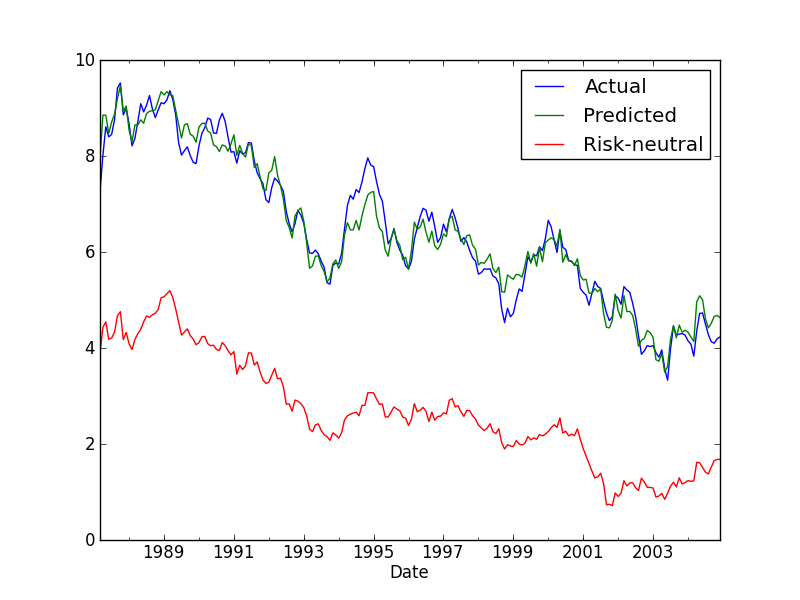
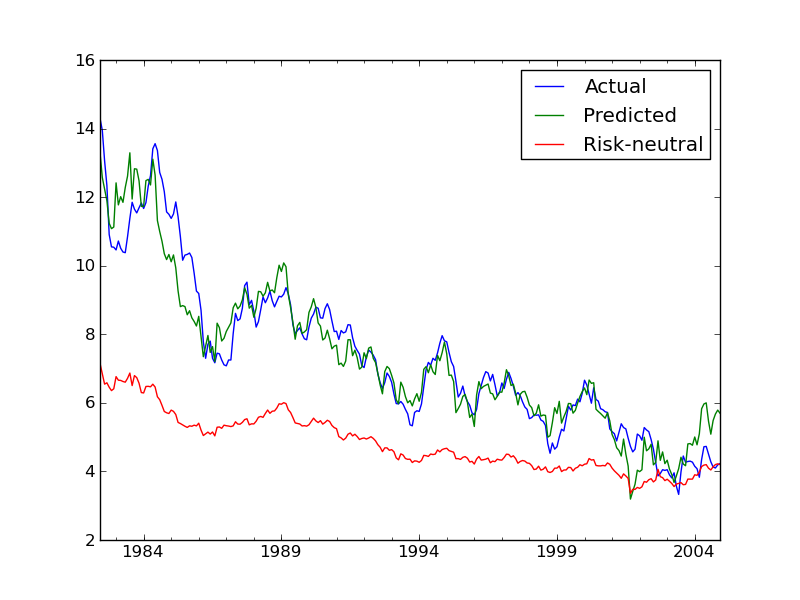
Working on getting figures for paper

diff --git a/code/est_error.py b/code/est_error.py
@@ -9,6 +9,11 @@ import matplotlib.pyplot as plt
 import pickle
 
 from affine import Affine
+from statsmodels.tsa.api import VAR
+from statsmodels.tsa.filters import hpfilter
+from scipy import stats
+from util import pickle_file, success_mail, fail_mail, to_mth, gen_guesses, \
+                    robust
 
 ########################################
 # Get macro data                       #
@@ -89,29 +94,33 @@ k_ar = bsr.k_ar
 
 lam_0_nr = np.zeros([neqs*k_ar, 1])
 lam_1_nr = np.zeros([neqs*k_ar, neqs*k_ar])
+sigma_zeros = np.zeros_like(bsr.sigma_ols)
+#sigma_zeros[:neqs, :neqs] = bsr.sigma_ols[:neqs, :neqs]
 
-a_nrsk, b_nrsk = bsr.gen_pred_coef(lam_0=lam_0_nr, lam_1=lam_1_nr,
-                                   delta_1=bsr.delta_1_nolat, mu=bsr.mu_ols,
-                                   phi=bsr.phi_ols, sigma=bsr.sigma_ols)
 #grab previous run
-pkl_file = open("pkl_file", "rb")
-final_lam_0 = pickle.load(pkl_file)
+pkl_file = open("../results/bern_nls/lam_0_all_nls.pkl", "rb")
+final_lam_0 = pickle.load(pkl_file)[0]
 pkl_file.close()
 
-pkl_file = open("pkl_file2", "rb")
-final_lam_1 = pickle.load(pkl_file)
+pkl_file = open("../results/bern_nls/lam_1_all_nls.pkl", "rb")
+final_lam_1 = pickle.load(pkl_file)[0]
 pkl_file.close()
+
 
 a_rsk, b_rsk = bsr.gen_pred_coef(lam_0=final_lam_0, lam_1=final_lam_1,
                                    delta_1=bsr.delta_1_nolat, mu=bsr.mu_ols,
                                    phi=bsr.phi_ols, sigma=bsr.sigma_ols)
 
+#generate no risk results
+a_nrsk, b_nrsk = bsr.gen_pred_coef(lam_0=lam_0_nr, lam_1=lam_1_nr,
+                                   delta_1=bsr.delta_1_nolat, mu=bsr.mu_ols,
+                                   phi=bsr.phi_ols, sigma=sigma_zeros)
 #gen BSR predicted
-X_t = bsr.var_data
-per = bsr.mth_only.index
+X_t = bsr.var_data_vert
+per = bsr.yc_data.index
 act_pred = px.DataFrame(index=per)
 for i in bsr.mths:
-    act_pred[str(i) + '_mth_act'] = bsr.mth_only['l_tr_m' + str(i)]
+    act_pred[str(i) + '_mth_act'] = bsr.yc_data['l_tr_m' + str(i)]
     act_pred[str(i) + '_mth_pred'] = a_rsk[i-1] + \
                                     np.dot(b_rsk[i-1].T, X_t.values.T)[0]
     act_pred[str(i) + '_mth_nrsk'] = a_nrsk[i-1] + \
@@ -137,14 +146,14 @@ ten_yr_plot = ten_yr.reindex(columns = ['120_mth_act',
 fig = ten_yr_plot.plot(legend=False)
 handles, old_labels = fig.get_legend_handles_labels()
 fig.legend(handles, ('Actual', 'Predicted', 'Risk-neutral'))
-plt.savefig(path_pre + "../write_up/figures/tenyr_rep.png")
+plt.savefig("../write_up/figures/tenyr_rep.png")
 #two year
 two_yr_plot = two_yr.reindex(columns = ['24_mth_act',
     '24_mth_pred', '24_mth_nrsk'])
 fig = two_yr_plot.plot()
 handles, old_labels = fig.get_legend_handles_labels()
 fig.legend(handles, ('Actual', 'Predicted', 'Risk-neutral'))
-plt.savefig(path_pre + "../write_up/figures/twoyr_rep.png")
+plt.savefig("../write_up/figures/twoyr_rep.png")
 
 #generate st dev of residuals
 yields = ['six_mth', 'one_yr', 'two_yr', 'three_yr', 'five_yr', 'seven_yr', 

diff --git a/code/format_prms.py b/code/format_prms.py
@@ -4,16 +4,14 @@ import re
 import pandas as px
 import numpy as np
 
-#!!!need to get easier output into table
-
-res_loc = "../results/"
+neqs = 5
 
 #get lambda_0 estimates
-pkl_file = open(res_loc + "collect_0_ref_curve.pkl", "rb")
-collect_0_ref = pickle.load(pkl_file)
+pkl_file = open("../results/bern_nls/lam_0_all_nls.pkl", "rb")
+collect_0_ref = pickle.load(pkl_file)[0]
 print "lambda_0 parameter estimates"
 #print collect_0_ref[3][0]
-out_str = str(np.round(collect_0_ref[3][1], decimals=4))
+out_str = str(np.round(collect_0_ref[:neqs], decimals=4))
 out_str = re.sub("]", " &", out_str)
 out_str = re.sub("\[+", " ", out_str)
 out_str = re.sub("\n", "\n&\n", out_str)
@@ -21,12 +19,12 @@ print out_str
 pkl_file.close()
 
 #get lamda_1 estiamtes
-pkl_file = open(res_loc + "collect_1_ref_curve.pkl", "rb")
-collect_1_ref = pickle.load(pkl_file)
+pkl_file = open("../results/bern_nls/lam_1_all_nls.pkl", "rb")
+collect_1_ref = pickle.load(pkl_file)[0]
 print "lambda_1 parameter estimates"
 #print collect_1_ref[3][0]
-#print np.round(collect_1_ref[3][1][:5, :5], decimals=4)
-out_str = str(np.round(collect_1_ref[3][1][:5, :5], decimals=4))
+np.set_printoptions(precision=4)
+out_str = str(collect_1_ref[:neqs, :neqs], decimals=4)
 out_str = re.sub("]", "", out_str)
 out_str = re.sub("\[+", "", out_str)
 out_str = re.sub(" +", " &", out_str)
@@ -34,16 +32,16 @@ print out_str
 pkl_file.close()
 
 #get var-cov matrix
-pkl_file = open(res_loc + "collect_cov_ref.pkl", "rb")
-cov = pickle.load(pkl_file)
-print cov[3][0]
+pkl_file = open("../results/bern_nls/cov_all_nls.pkl", "rb")
+cov = pickle.load(pkl_file)[0]
+#print cov
 #variance
 #print "parameter est variance"
 #print np.round(np.diag(cov[3][1]), decimals=4)
 #std err
 print "parameter est std err"
 #print np.round(np.sqrt(np.diag(cov[3][1])), decimals=4)
-out_str = str(np.round(np.sqrt(np.diag(cov[3][1])), decimals=4))
+out_str = str(np.round(np.sqrt(np.diag(cov)), decimals=4))
 out_str = re.sub("]", "", out_str)
 out_str = re.sub("\[+", "", out_str)
 out_str = re.sub(" +", " &", out_str)

diff --git a/write_up/field_sketch.tex b/write_up/field_sketch.tex
@@ -488,13 +488,13 @@ maturities in both the original BSR model and this replication.
     \hline
     \textbf{Maturity} & \textbf{VAR with ED shocks} & \textbf{VAR without ED
     shocks}\\ \hline
-    6 months  & 17.1 & 18.3 \\ \hline
-    1 year    & 21.8 & 25.1 \\ \hline
-    2 years   & 24.6 & 34.6 \\ \hline
-    3 years   & 23.3 & 36.7 \\ \hline
-    5 years   & 21.4 & 37.3 \\ \hline
-    7 years   & 19.8 & 34.4 \\ \hline
-    10 years  & 20.0 & 33.4 \\ \hline
+    6 months  & 23.4 & 18.3 \\ \hline
+    1 year    & 34.4 & 25.1 \\ \hline
+    2 years   & 46.0 & 34.6 \\ \hline
+    3 years   & 49.1 & 36.7 \\ \hline
+    5 years   & 51.0 & 37.3 \\ \hline
+    7 years   & 50.9 & 34.4 \\ \hline
+    10 years  & 49.2 & 33.4 \\ \hline
 \end{tabular}
 \end{center}
 \label{tab:2}
